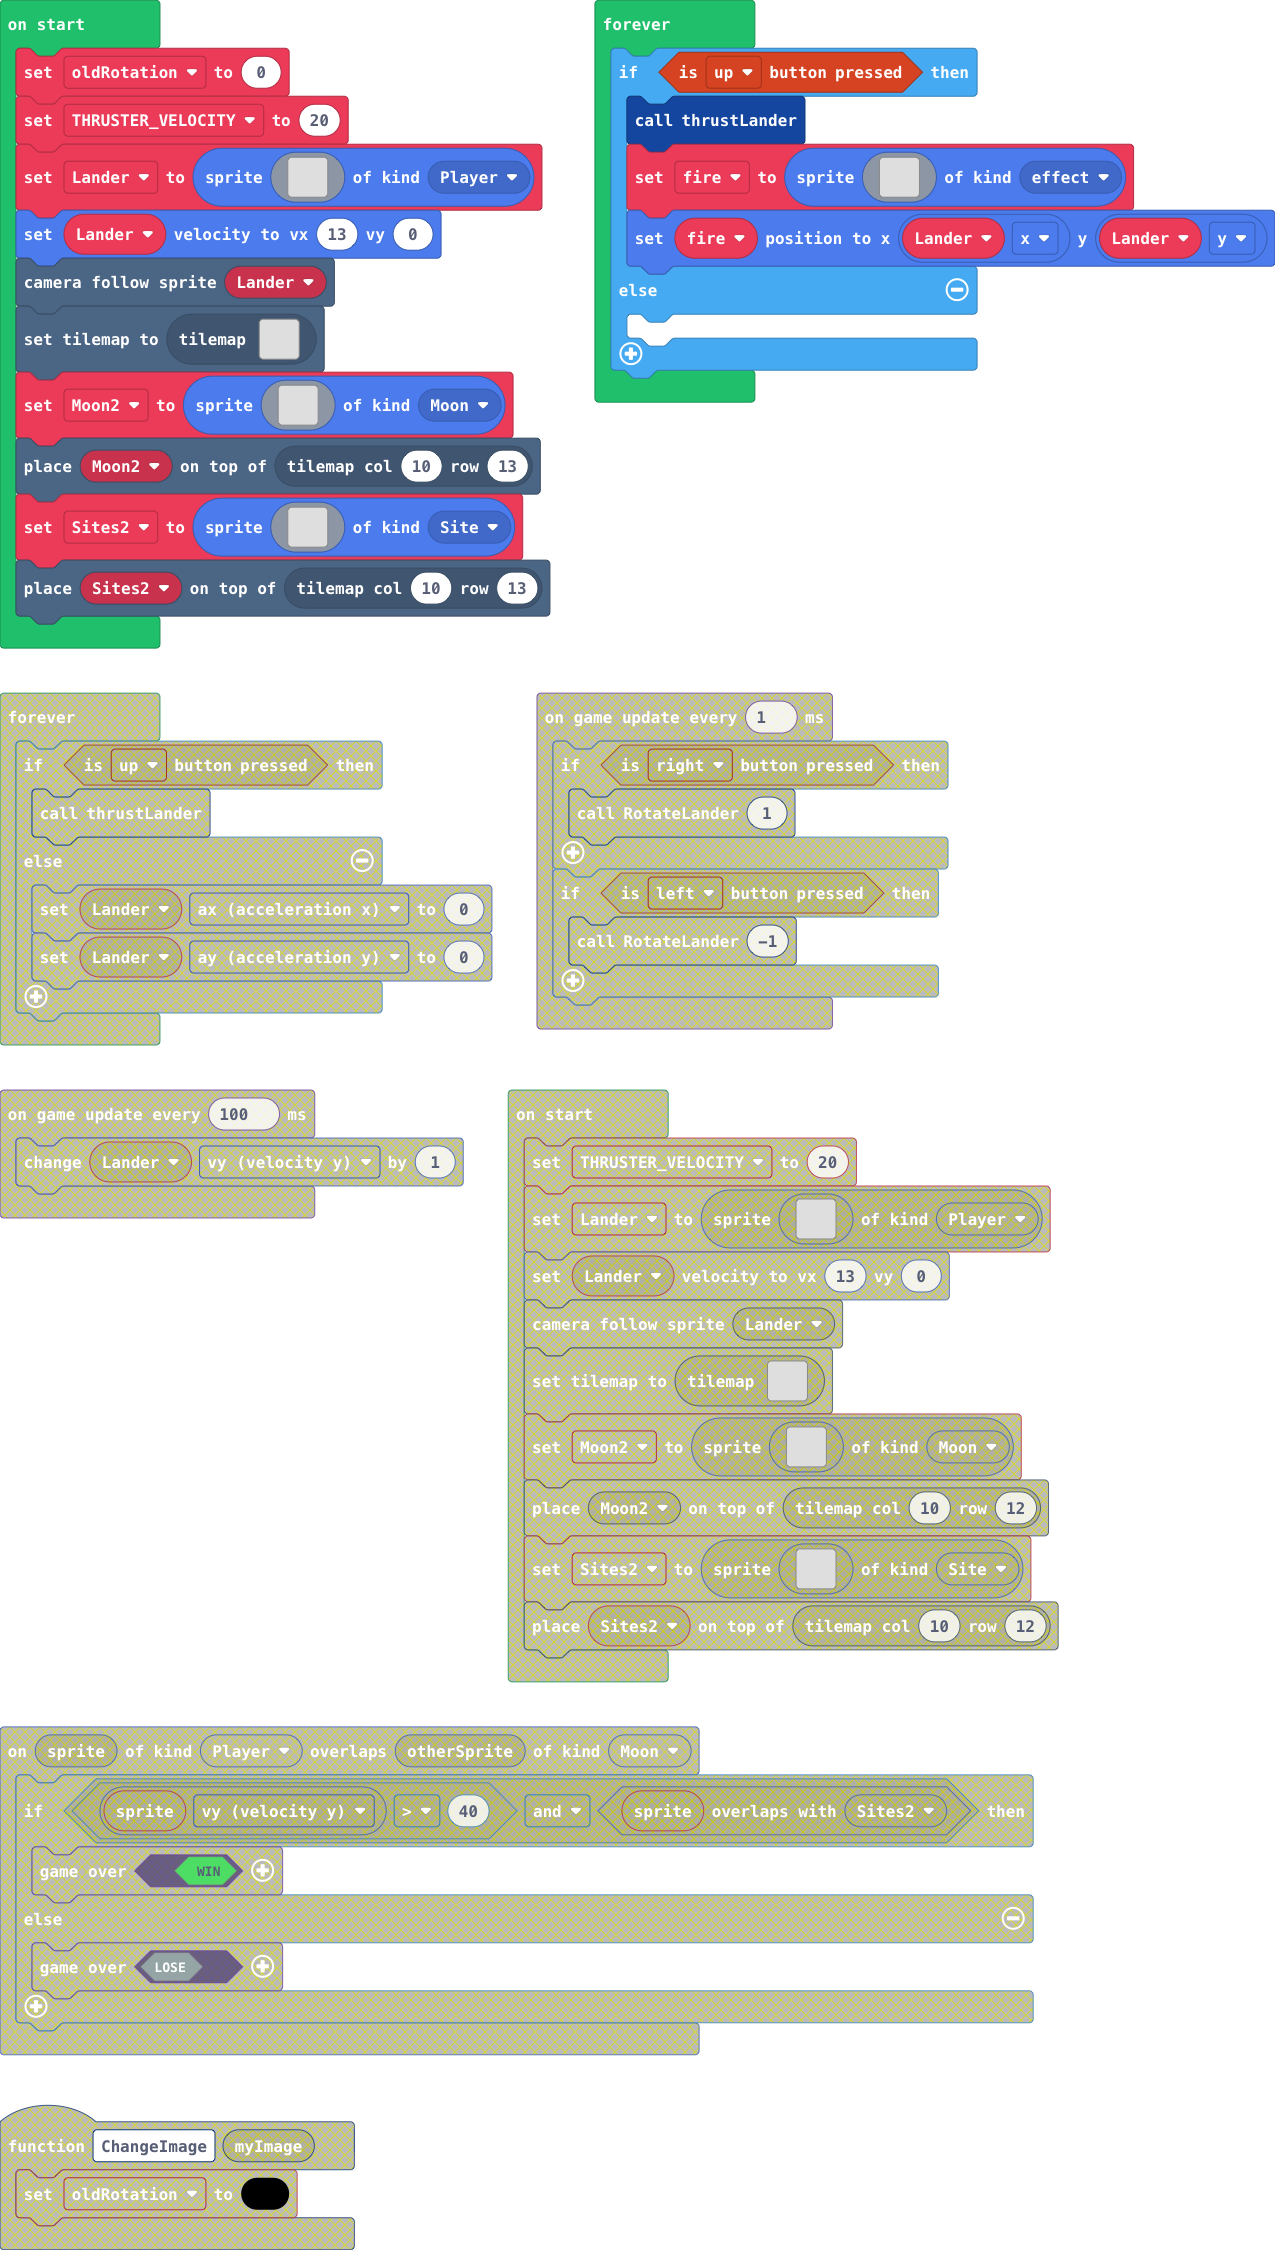
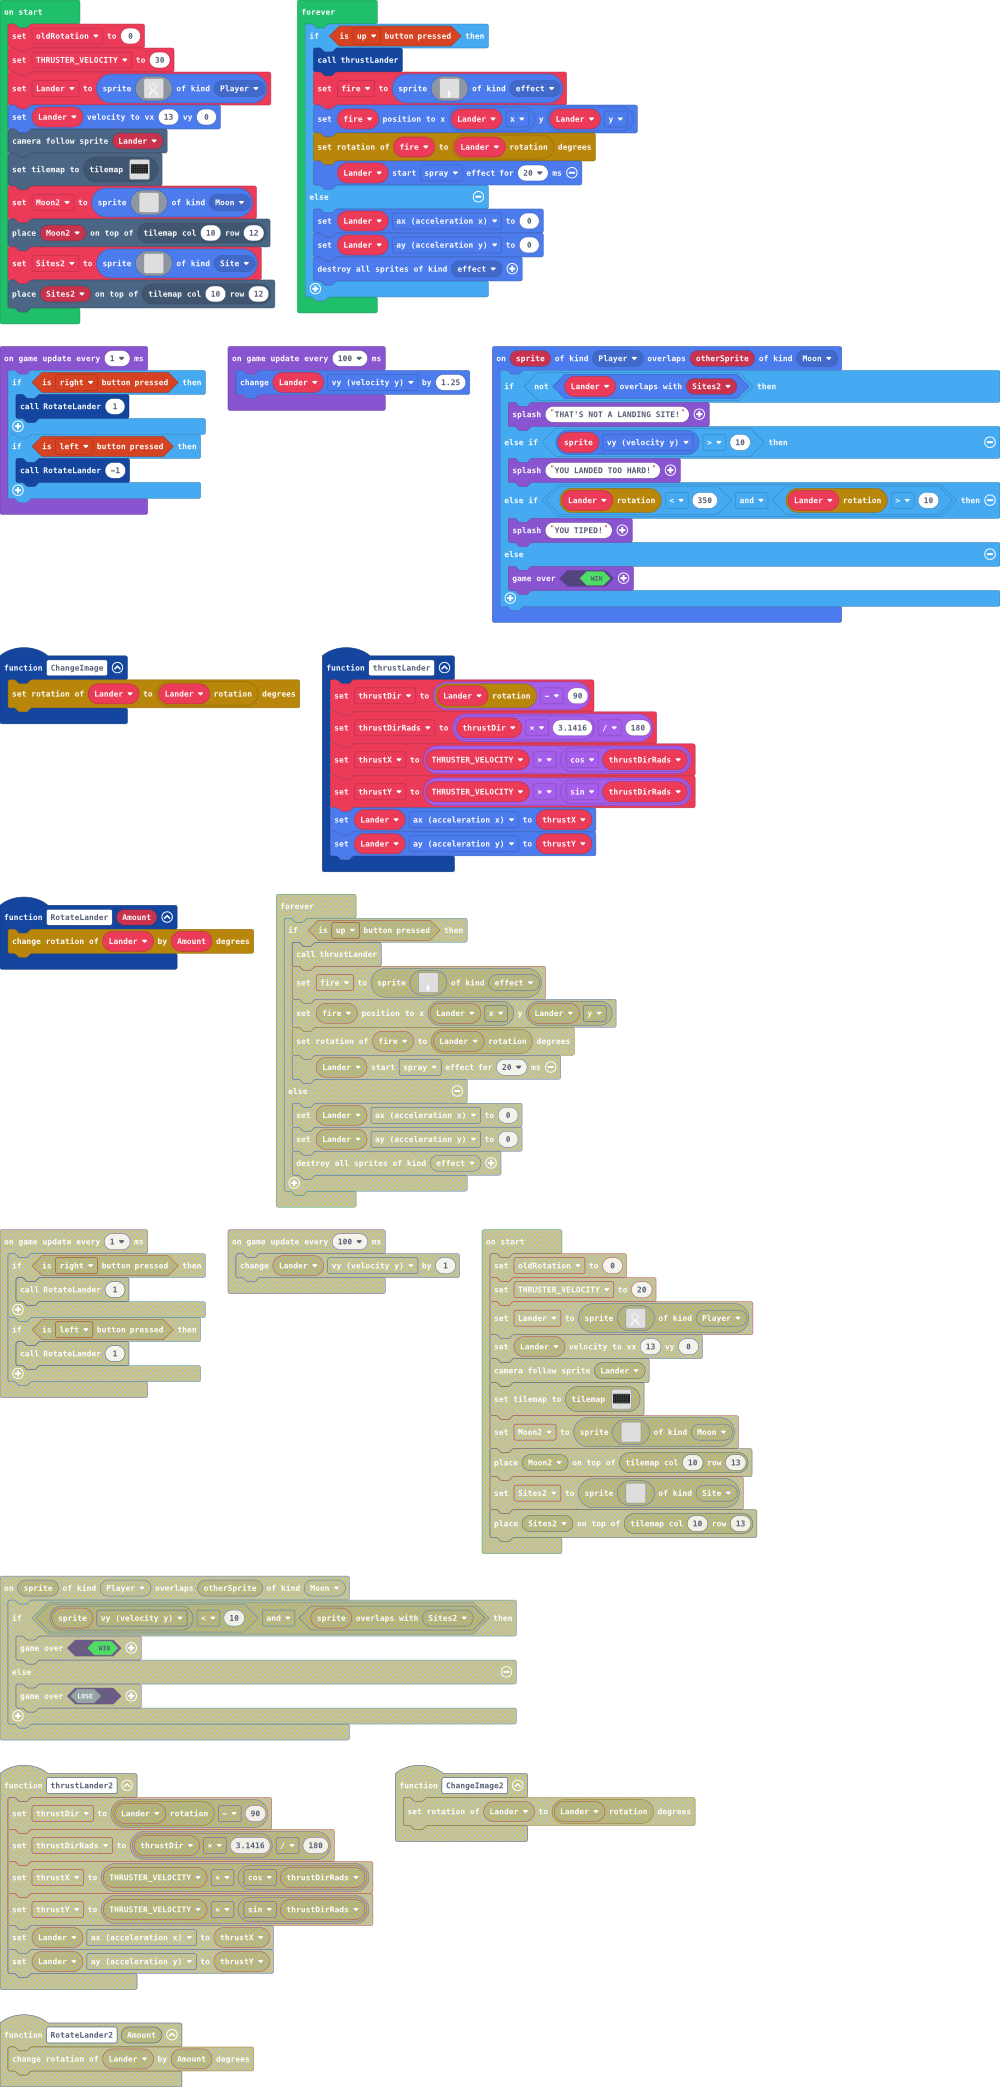
Update main.blocks, main.ts, tilemap.g.jres, tilemap.g.ts

diff --git a/tilemap.g.ts b/tilemap.g.ts
@@ -96,6 +96,25 @@ namespace myTiles {
 .........................
 .........................
 `, [myTiles.transparency16,myTiles.tile1], TileScale.Sixteen);
+            case "level5":
+            case "level5":return tiles.createTilemap(hex`1000100000000000000000000000000000000000000000000000000000000000000000000000000000000000000000000000000000000000000000000000000000000000000000000000000000000000000000000000000000000000000000000000000000000000000000000000000000000000000000000000000000000000000000000000000000000000000000000000000000000000000000000000000000000000000000000000000000000000000000000000000000000000000000000000000000000000000000000000000000000000000000000000000000000000000000000000000000000000000000000000000000000000000000000000000000000000`, img`
+. . . . . . . . . . . . . . . . 
+. . . . . . . . . . . . . . . . 
+. . . . . . . . . . . . . . . . 
+. . . . . . . . . . . . . . . . 
+. . . . . . . . . . . . . . . . 
+. . . . . . . . . . . . . . . . 
+. . . . . . . . . . . . . . . . 
+. . . . . . . . . . . . . . . . 
+. . . . . . . . . . . . . . . . 
+. . . . . . . . . . . . . . . . 
+. . . . . . . . . . . . . . . . 
+. . . . . . . . . . . . . . . . 
+. . . . . . . . . . . . . . . . 
+. . . . . . . . . . . . . . . . 
+. . . . . . . . . . . . . . . . 
+. . . . . . . . . . . . . . . . 
+`, [myTiles.transparency16], TileScale.Sixteen);
         }
         return null;
     })

diff --git a/main.ts b/main.ts
@@ -7,14 +7,14 @@ function ChangeImage () {
     transformSprites.rotateSprite(Lander, transformSprites.getRotation(Lander))
 }
 sprites.onOverlap(SpriteKind.Player, SpriteKind.Moon, function (sprite, otherSprite) {
-    if(!(Lander.overlapsWith(Sites2))){
+    if (!(Lander.overlapsWith(Sites2))) {
         game.splash("THAT'S NOT A LANDING SITE!")
-    }
-    else if (sprite.vy > 10 ) {
+    } else if (sprite.vy > 10) {
         game.splash("YOU LANDED TOO HARD!")
-    }
-     else {
-        game.over(false)
+    } else if (transformSprites.getRotation(Lander) < 350 && transformSprites.getRotation(Lander) > 10) {
+        game.splash("YOU TIPED!")
+    } else {
+        game.splash("YOU LANDED ON THE MOON!")
     }
 })
 function thrustLander () {
@@ -37,7 +37,7 @@ let Sites2: Sprite = null
 let Lander: Sprite = null
 let THRUSTER_VELOCITY = 0
 let oldRotation = 0
-THRUSTER_VELOCITY = 20
+THRUSTER_VELOCITY = 30
 Lander = sprites.create(assets.image`myImage`, SpriteKind.Player)
 Lander.setVelocity(13, 0)
 scene.cameraFollowSprite(Lander)
@@ -68,7 +68,7 @@ forever(function () {
     }
 })
 game.onUpdateInterval(100, function () {
-    Lander.vy += 1
+    Lander.vy += 1.25
 })
 game.onUpdateInterval(100, function () {
     sprites.destroyAllSpritesOfKind(SpriteKind.effect)
